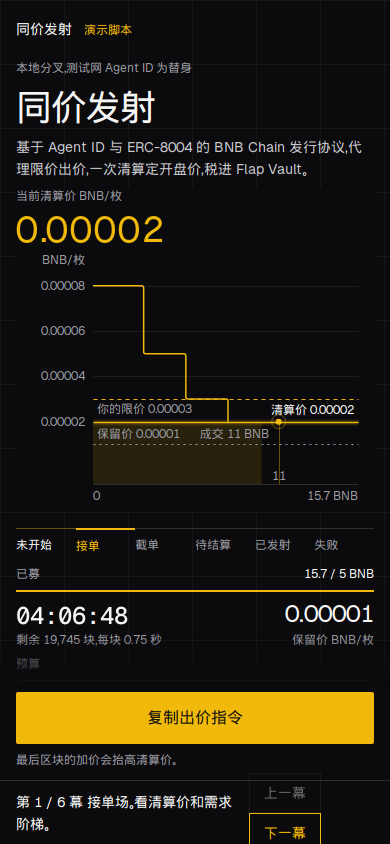
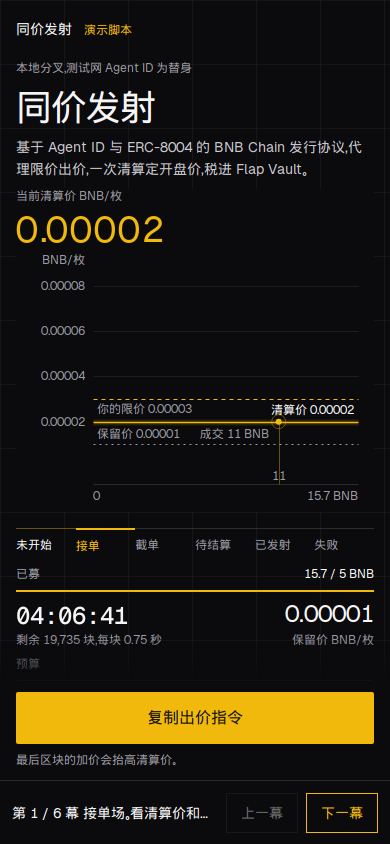
让窄屏演示按钮留在屏幕里，并说清写错的金额。

diff --git a/web/src/styles.css b/web/src/styles.css
@@ -566,6 +566,7 @@ svg.plot { display: block; touch-action: none; background: var(--bg); }
   font-size: var(--fs-14);
 }
 .demo-bar p { margin: 0; min-width: 0; }
+.demo-bar > div { display: flex; gap: 8px; flex: none; }
 .demo-bar button {
   height: 40px;
   flex: none;
@@ -577,7 +578,21 @@ svg.plot { display: block; touch-action: none; background: var(--bg); }
   font-size: var(--fs-14);
 }
 @media (max-width: 900px) {
-  .demo-bar { left: 0; right: 0; height: 64px; }
+  .demo-bar {
+    left: 0;
+    right: 0;
+    height: 64px;
+    flex-wrap: nowrap;
+    align-items: center;
+    padding: 0 12px;
+  }
+  .demo-bar p {
+    flex: 1 1 auto;
+    white-space: nowrap;
+    overflow: hidden;
+    text-overflow: ellipsis;
+    line-height: 20px;
+  }
 }
 .demo-bar button.next { border-color: var(--accent); color: var(--accent); }
 .demo-bar button:disabled { opacity: 0.4; }

diff --git a/docs/work-log.md b/docs/work-log.md
@@ -37,3 +37,5 @@ Wed Nov 25 07:56:46 PM UTC 2026
 手机上的回执不再被拉成一整块。已发射幕在按钮上方另给一行金库余额，390 宽上沿 620、按钮上沿 716，不重叠。
 Wed Nov 25 07:57:16 PM UTC 2026
 失败文案不再写成未达保留价。入池不够和保留价不够都是没有成交、出价全额退回。代理的低于保留价说法和页面一致。
+Wed Nov 25 07:58:45 PM UTC 2026
+窄屏演示条改成一行。320 和 390 上两个按钮都在屏幕内，下沿 833，不压住主按钮。小写地址也能模拟。金额写错时直接说要用十进制。
